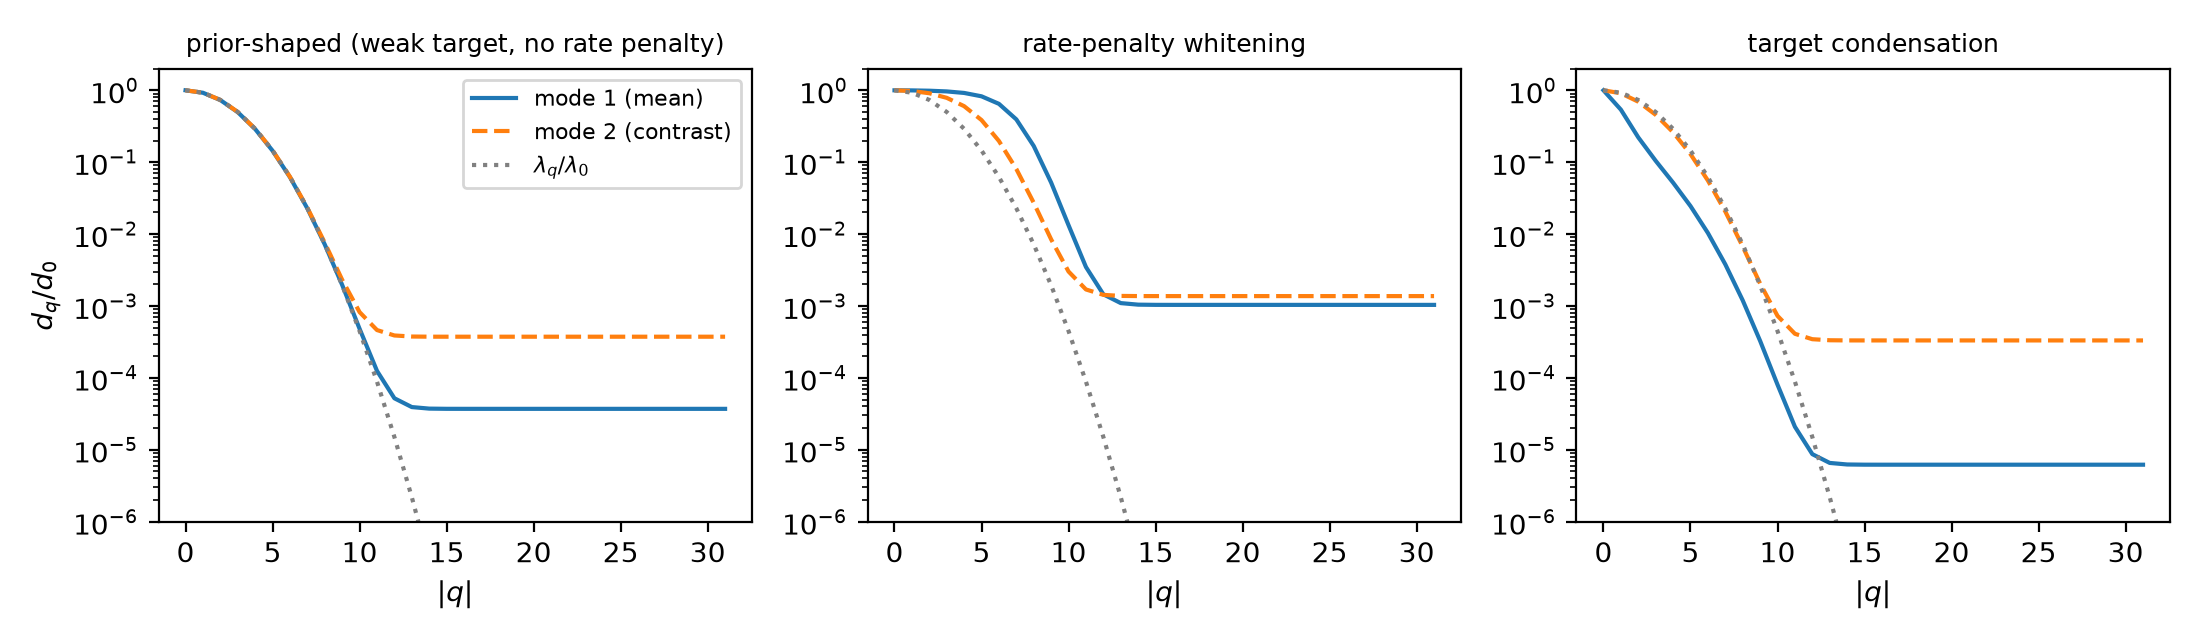
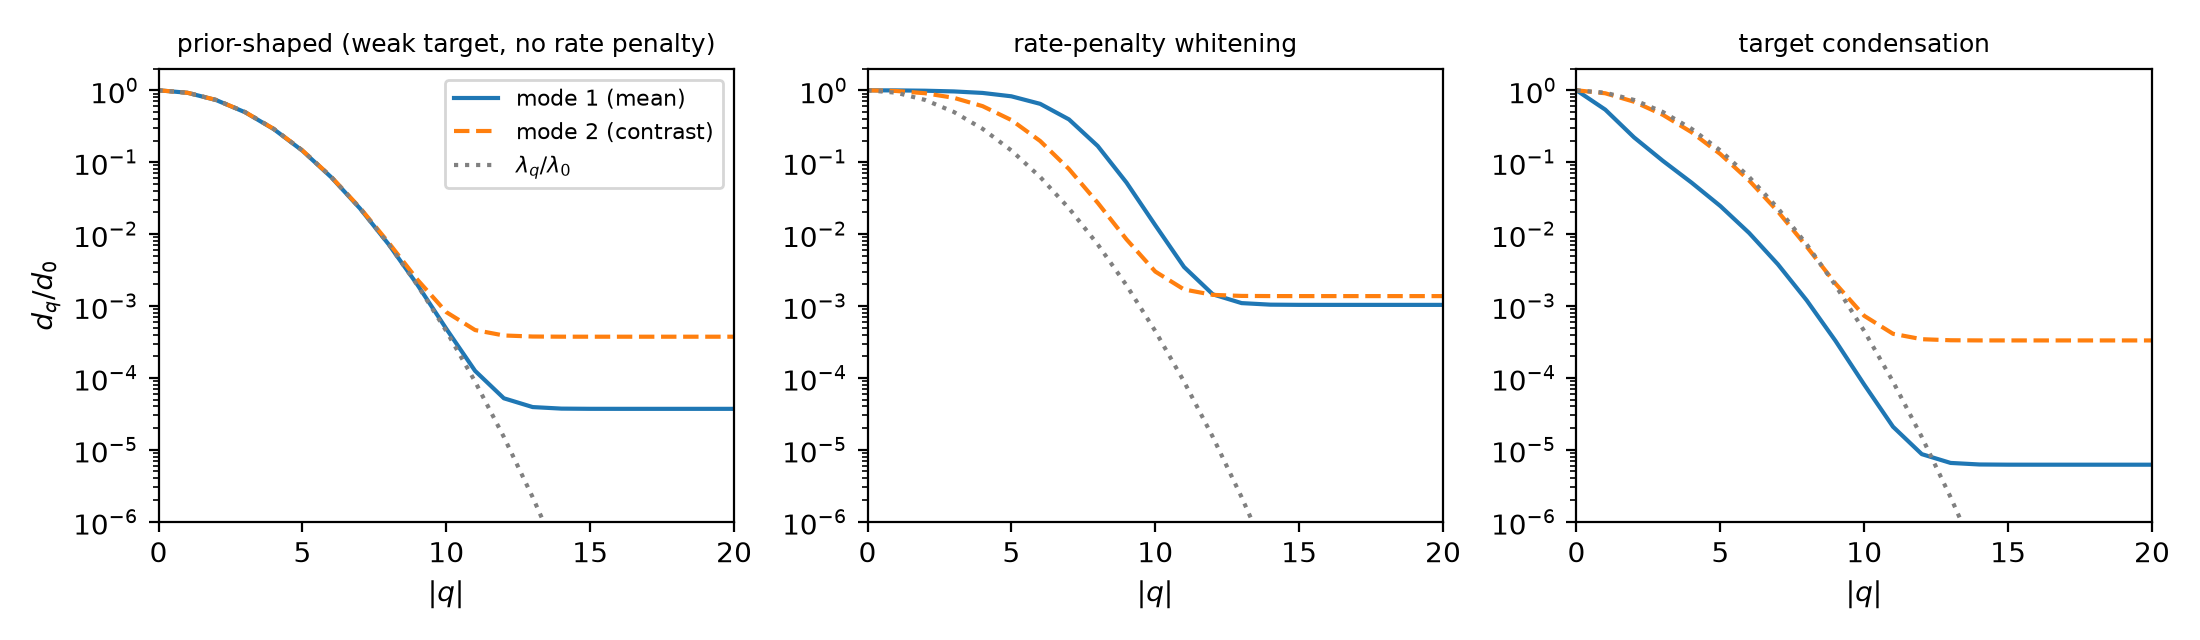
check_linear_soln_limits: crop the profile figure to |q| <= 20
Beyond |q| ~ 20 every curve sits on its floor and lam_q is at round-off, so
the right half of each panel carried no information. Figure regenerated.

diff --git a/latex/notes/scripts/check_linear_soln_limits.py b/latex/notes/scripts/check_linear_soln_limits.py
@@ -70,6 +70,7 @@ P3_BETA_SWEEP = [0.25, 1.0, 2.0, 5.0, 10.0]
 P7_ELL_SWEEP = [2.0, 4.0, 8.0]
 P8_K_SWEEP = [0.01, 0.1, 1.0, 10.0, 100.0]
 RATIO_Q_MAX = 12  # d_q(mode 1) / d_q(mode 2) is printed for |q| = 0, ..., RATIO_Q_MAX
+FIGURE_Q_MAX = 20  # the figure shows |q| <= FIGURE_Q_MAX
 FIGURE_PANELS = [
     "P1 prior-shaped (weak target, no rate penalty)",
     "P2 rate-penalty whitening",
@@ -789,14 +790,16 @@ def plot_profiles(name, ax=None):
     if ax is None:
         _, ax = plt.subplots()
     q = np.fft.fftfreq(PRED_N) * PRED_N
-    keep = q >= 0
+    # Beyond |q| ~ 20 every curve sits on its floor and lam_q is at round-off: nothing is lost.
+    keep = (q >= 0) & (q <= FIGURE_Q_MAX)
     lam, spectra = prediction_spectra(*PREDICTIONS[name])
     for mode, (d, style) in enumerate(zip(spectra, ("-", "--")), start=1):
         label = f"mode {mode} ({'mean' if mode == 1 else 'contrast'})"
         ax.plot(q[keep], d[keep] / d[0], style, label=label)
     ax.plot(q[keep], lam[keep] / lam[0], ":", color="grey", label=r"$\lambda_q/\lambda_0$")
     ax.set_yscale("log")
-    ax.set_ylim(1e-6, 2)  # lam_q reaches round-off (1e-14) beyond |q| ~ 20; nothing is lost
+    ax.set_ylim(1e-6, 2)
+    ax.set_xlim(0, FIGURE_Q_MAX)
     ax.set_xlabel("$|q|$")
     ax.set_title(name.split(" ", 1)[1], fontsize=9)
     return ax
